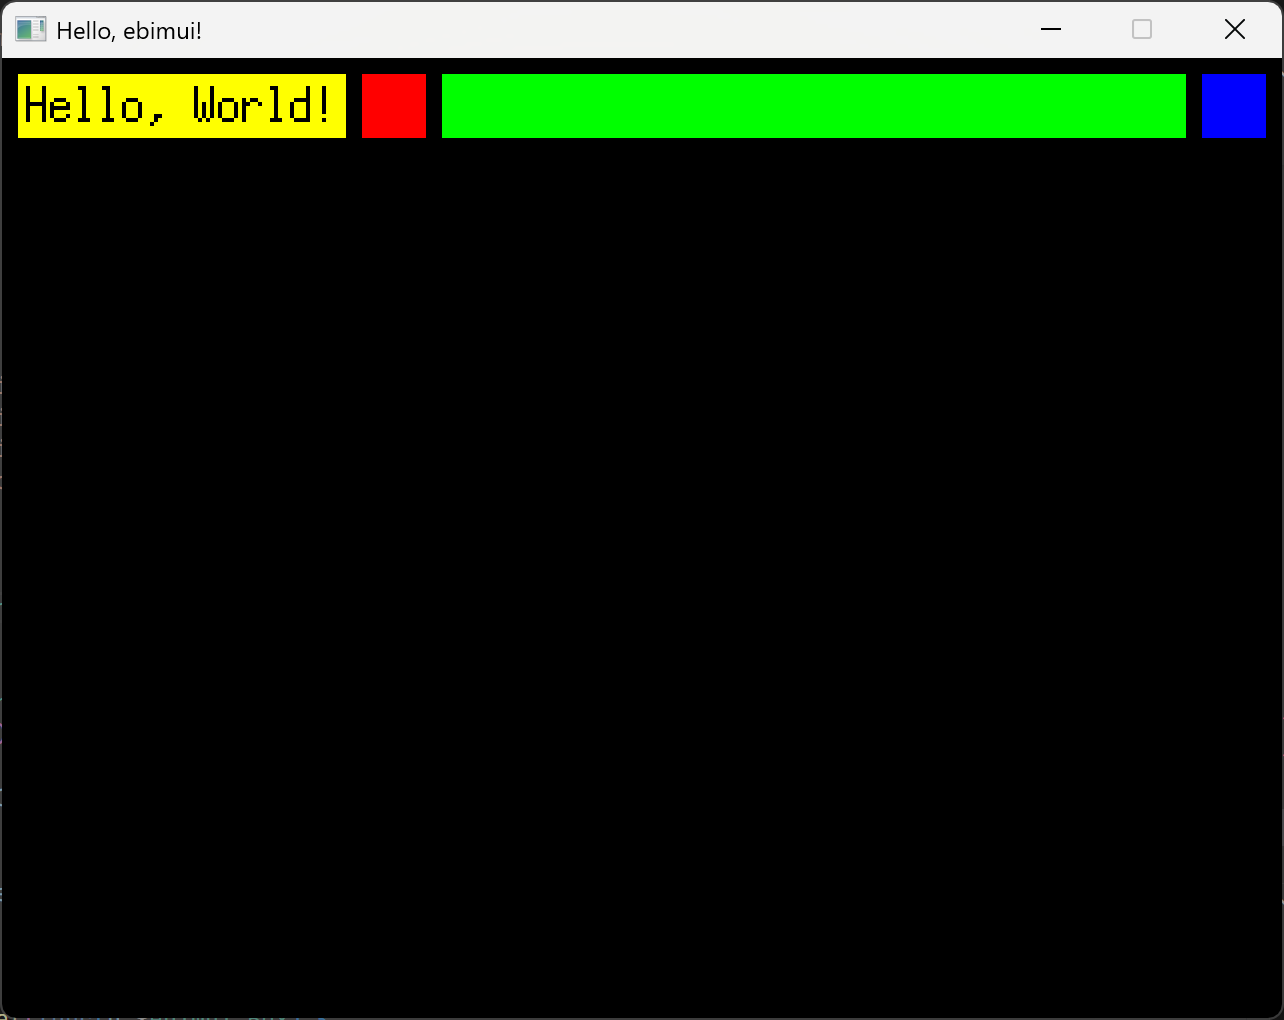
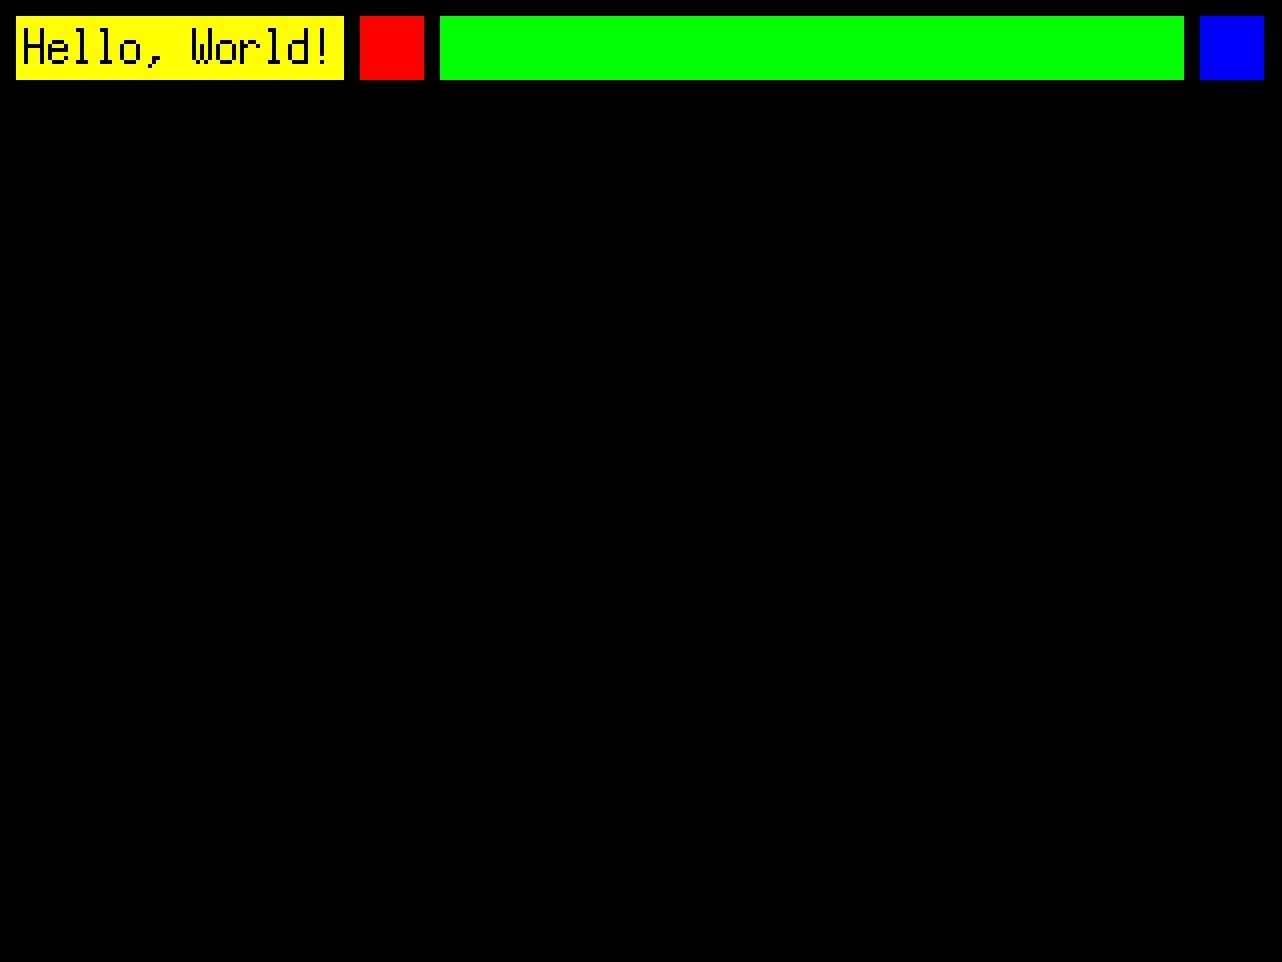
move examples folder

Changed region(s): [[0.0, 0.0, 1.0, 0.9979], [0.0, 0.9979, 0.9984, 1.0]]

diff --git a/_website/src/styles/global.css b/_website/src/styles/global.css
@@ -4,3 +4,9 @@
 @theme {
   --font-sans: "Lexend", -apple-system, BlinkMacSystemFont, "Segoe UI", Roboto, "Helvetica Neue", "Noto Sans", Arial, sans-serif, "Apple Color Emoji", "Segoe UI Emoji", "Segoe UI Symbol", "Noto Color Emoji"; 
 }
+
+.prose img {
+  width: 456px;
+  margin: auto;
+  @apply rounded-xl;
+}